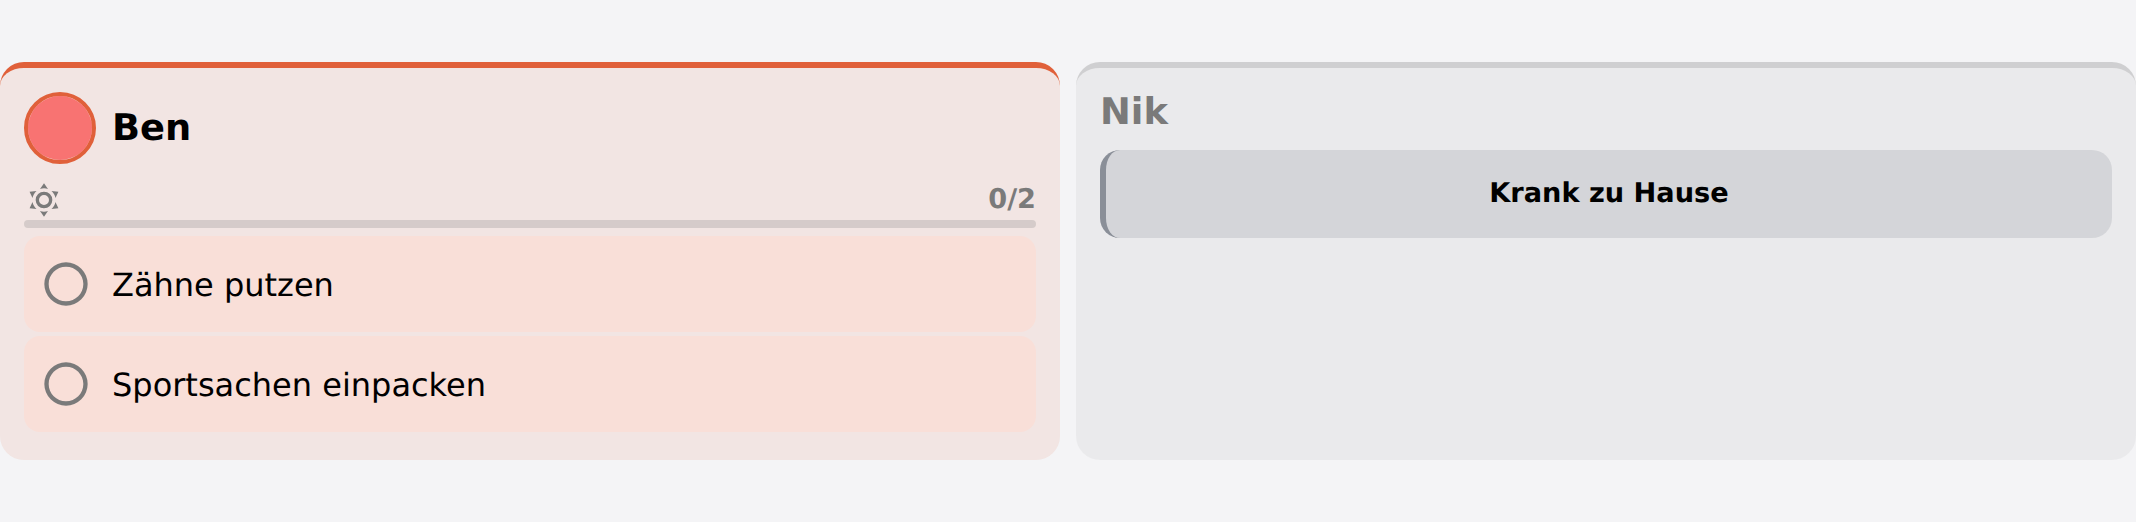
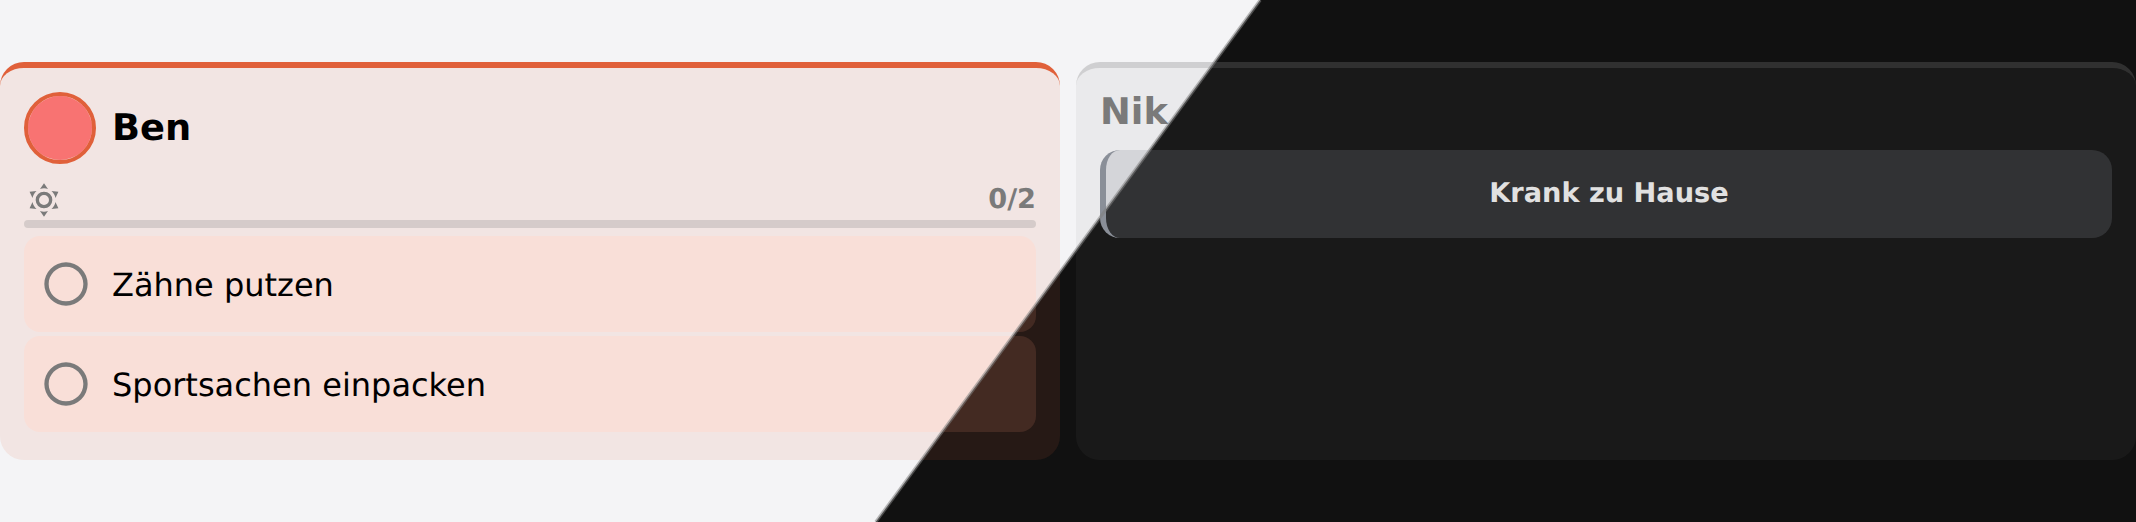
Both themes in one picture, and a manual for restyling (#28)
Every picture in the manual was the light theme, and a wall panel is on one or
the other all day. Each one is now rendered twice and cut together on a diagonal,
light on the left, dark on the right -- one picture rather than two, because what
is worth seeing is that it is the same card. The dark half is Home Assistant's
own theme values, and only the variables the cards actually read, which is what
makes it honest rather than a mock-up.

Whether these cards can be restyled with card-mod was never written down and
never checked. It is mostly true, and only half of it behaves the way anybody
expects: the --schoolday-* variables override cleanly, while a rule on a class
needs !important -- cascade order rather than specificity, because Lit adopts its
styles as constructable stylesheets and those come after a <style> in the same
root. Both halves are now pinned by the smoke suite, and the manual carries the
table of every variable, its default, and what it colours.

diff --git a/src/lib/styles.ts b/src/lib/styles.ts
@@ -5,6 +5,11 @@ import { css } from 'lit';
  *
  * Sized for a wall tablet: touch targets are at least 44px, and nothing depends on
  * hover, which does not exist on the device this is built for.
+ *
+ * These names are a public surface, not private plumbing: a household restyles Schoolday
+ * with card-mod by overriding them, and `docs/cards.md#restyling-with-card-mod` lists
+ * every one with its default. Renaming or dropping one breaks somebody's dashboard
+ * silently, and the table has to be corrected in the same commit.
  */
 export const schooldayTokens = css`
   :host {

diff --git a/docs/cards.md b/docs/cards.md
@@ -204,6 +204,88 @@ once there is more than one school to choose between.*
 *Holiday calendars are picked as entities; the care keywords stay the household’s own words*
 
 
+## Restyling with card-mod
+
+Every card is a Lit element with **one shadow root**, and nothing inside it is a nested
+custom element of Schoolday's own. That is what makes
+[card-mod](https://github.com/thomasloven/lovelace-card-mod) work here: the `<style>` it
+appends lands in the same shadow root everything is drawn in, so a selector reaches its
+target without any `$` piercing.
+
+```yaml
+type: custom:schoolday-routines-card
+card_mod:
+  style: |
+    ha-card {
+      --schoolday-radius: 4px;
+      --schoolday-muted: #888;
+    }
+```
+
+### The variables
+
+They are declared once, in `src/lib/styles.ts`, and every card reads the same ones. Each
+of the four that borrow from Home Assistant follows your theme unless you say otherwise —
+setting one here overrides it for Schoolday alone.
+
+| Variable | Default | What it colours or sizes |
+|---|---|---|
+| `--schoolday-gap` | `8px` | The space between children on the family cards |
+| `--schoolday-radius` | `12px` | The corner of every panel inside a card |
+| `--schoolday-touch` | `44px` | The smallest a tappable thing is allowed to get. Lower it and a wall tablet gets harder to hit |
+| `--schoolday-muted` | `--secondary-text-color` | Secondary text: counters, captions, the "nothing today" line |
+| `--schoolday-line` | `--divider-color` | Rules, bar tracks, empty meters |
+| `--schoolday-surface` | `--card-background-color` | What a tinted panel is tinted *against* |
+| `--schoolday-surface-alt` | `rgba(127,127,127,.08)` | The quieter panel: an ill child's block, a pressed button |
+| `--schoolday-today` | `--primary-color` | Today's column, the running lesson, the pressed segment |
+| `--schoolday-holiday` | `#b08d57` | A day off |
+| `--schoolday-care` | `#2f7f8f` | A day in holiday care |
+| `--schoolday-sick` | `#8a8f98` | A child at home ill |
+| `--schoolday-event` | `#7a5ea8` | A day the school took over — a trip, a sports day |
+
+The last four are deliberately **not** from the subject palette: a day off is not a
+subject, and nobody should have to wonder whether the sand-coloured block is a holiday or
+somebody's Art lesson.
+
+### Two colours that are data, not styling
+
+`--member-color` and `--subject` are set **inline**, per element, from what the integration
+holds — a child's colour and a subject's colour. Change those in Schoolday itself
+(**Family** and **Subjects** in the [admin card](#admin-card)) and every card follows at
+once, which is the point of them living there.
+
+A card-mod rule can still override them, but it needs `!important`, like any rule against
+an inline style.
+
+### Rules on classes need `!important`
+
+Not a matter of specificity — of cascade order. Lit adopts its styles as constructable
+stylesheets, and those come **after** a `<style>` element in the same shadow root, so at
+equal specificity the card wins:
+
+```yaml
+card_mod:
+  style: |
+    .step { background: rgb(0, 128, 0) !important; }
+```
+
+The smoke suite checks both halves of this — that the variables can be overridden and that
+a class rule needs the `!important` — so neither can quietly stop being true.
+
+### The classes worth targeting
+
+Stable enough to write a rule against; the ones not listed are layout scaffolding that may
+move.
+
+| Card | Classes |
+|---|---|
+| Timetable | `.title` `.chips` `.chip` `.grid` `.col-day` `.col-date` `.cell` `.subject` `.room` `.time` `.t-break` `.status` `.closure` |
+| Routines | `.person` `.person-name` `.avatar` `.block` `.block-head` `.progress` `.bar` `.bar-fill` `.step` `.label` `.from` `.sick-note` |
+| Routine record | `.person` `.person-head` `.name` `.rate` `.window` `.streak` `.strip` `.day` `.axis` `.row` `.meter` `.meter-fill` `.value` |
+| Homework | `.person` `.bucket` `.bucket-head` `.item` `.label` `.due` `.count` |
+| Header | `.clock` `.date` `.greeting` `.weather` `.temperature` `.condition` |
+| Admin | `.tabs` `.field` `.row` `.apply` `.danger` `.notice` `.error` |
+
 ## Language
 
 The cards follow **Home Assistant's own language** rather than a card option, so a German
